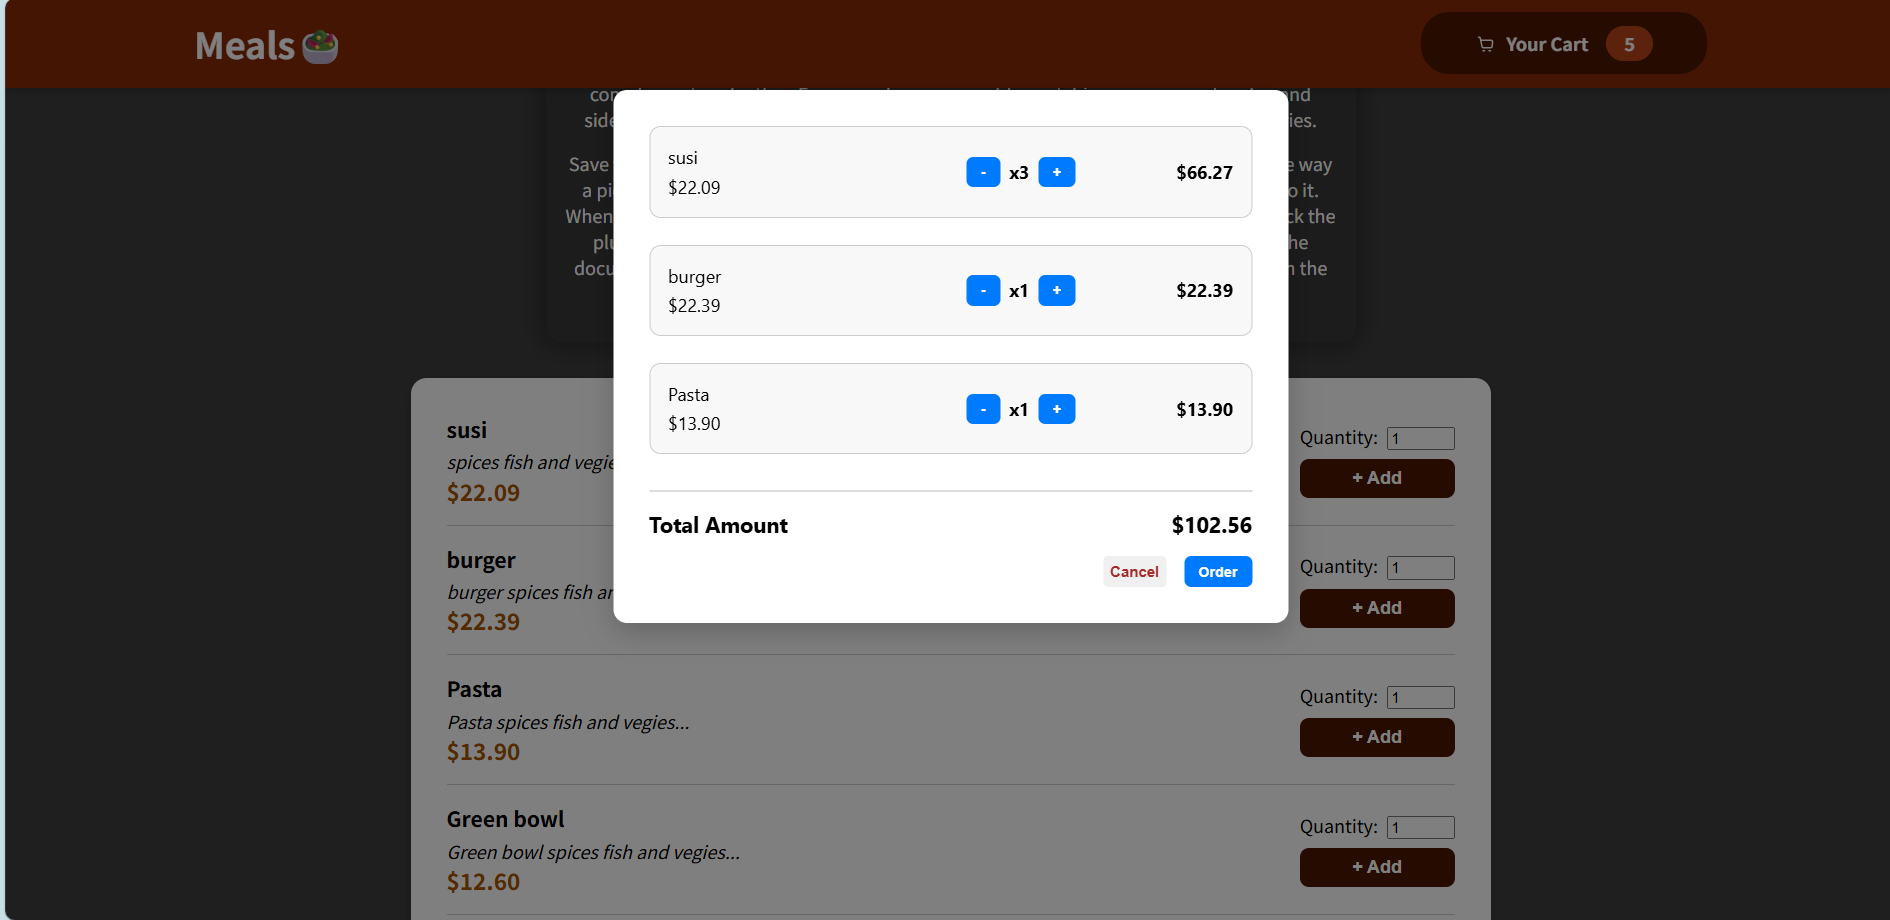
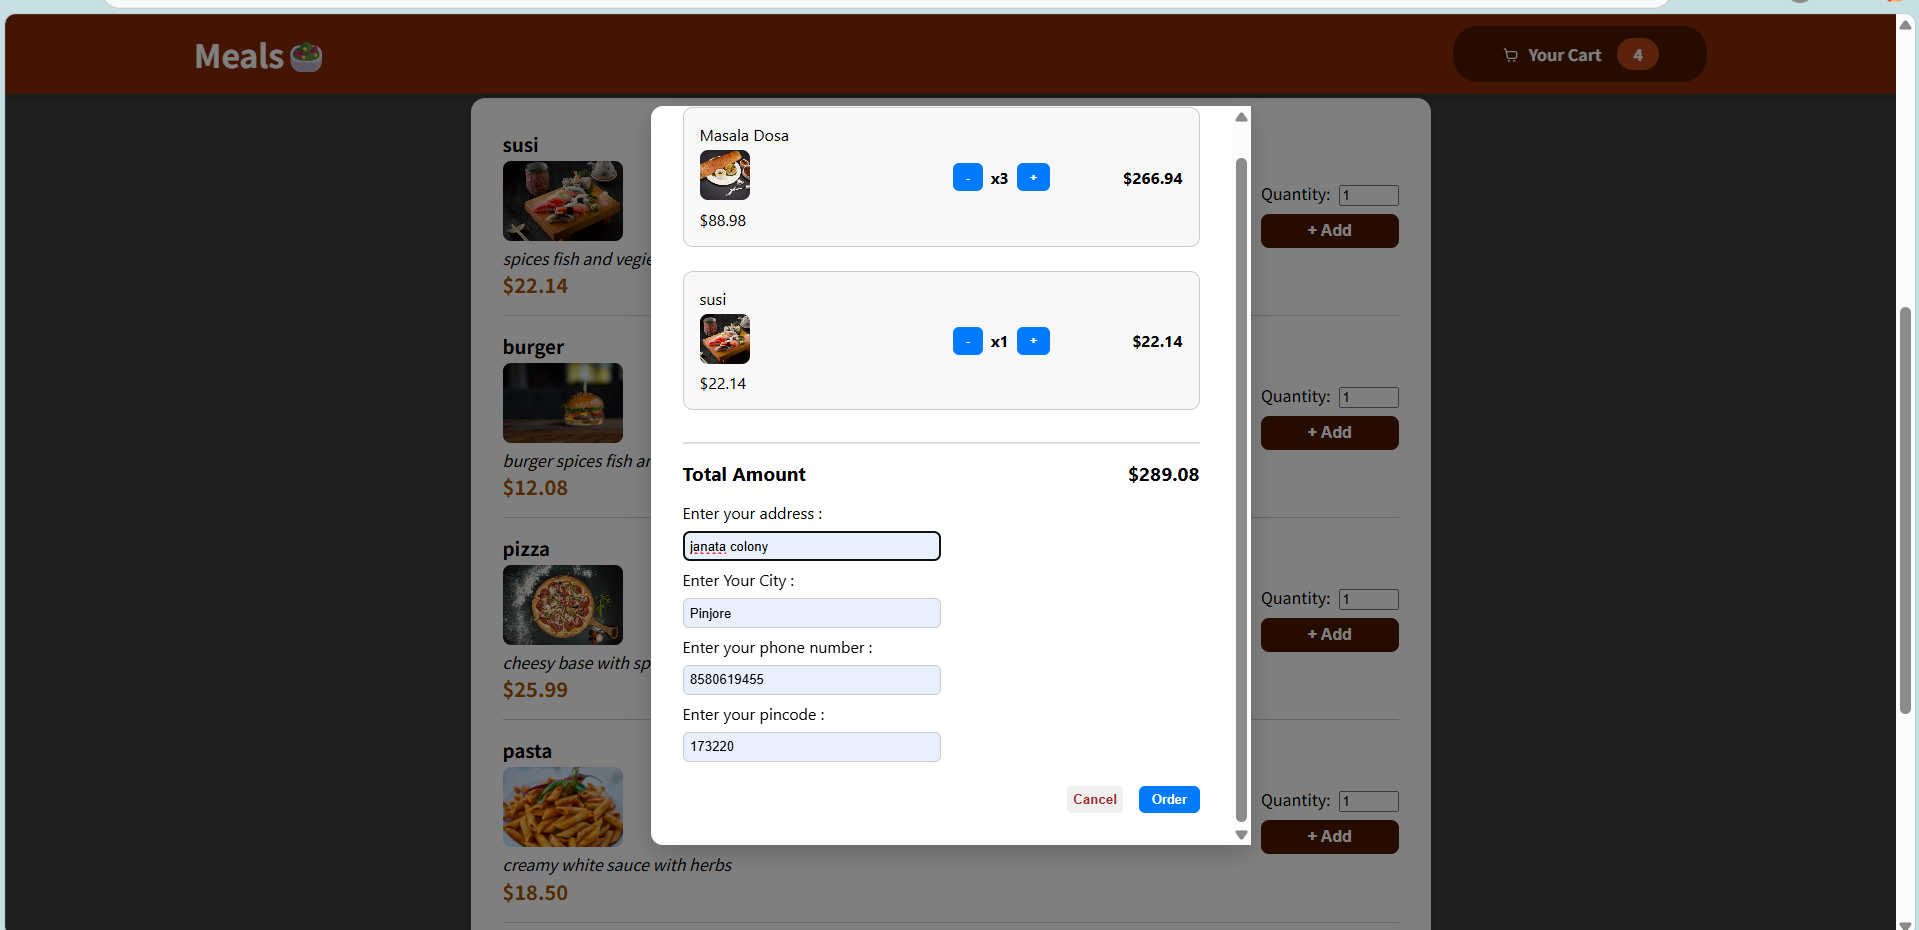
README file updated

Changed region(s): [[0.0, 0.0, 1.0, 1.0], [0.4995, 0.2739, 0.5931, 0.3957], [0.4995, 0.4261, 0.5931, 0.487]]

diff --git a/README.md b/README.md
@@ -6,20 +6,30 @@ This is a simple and elegant React-based Meal Ordering App that uses **React Con
 
 ## 🚀 Features
 
-- ✅ Predefined meal list displayed on the home page
-- ✅ Add meals to cart with notification
-- ✅ Live cart badge update with quantity
-- ✅ Modify quantity using `+` and `–` buttons in cart
-- ✅ Cart has a backdrop popup with `Cancel` and `Order` buttons
-- ✅ Uses **React Context** for state sharing
-- ✅ Clean and modern design using plain CSS
+- ✅ Meals are fetched from Firebase Realtime Database (previously static dummy data).
+- ✅ Add meals to cart with image, description, and price.
+- ✅ Live cart badge updates with selected quantity.
+- ✅ Modify quantity using `+` and `–` buttons in the cart modal.
+- ✅ Form integrated inside cart modal to place an order:
+  - Address
+  - City
+  - Phone number
+  - Pincode
+- ✅ On clicking **Order**:
+  - Form + cart data is submitted to Firebase.
+  - Cart is cleared automatically.
+  - A modal is shown with: **"Your order is submitted!"**
+- ✅ On clicking **OK** in that modal → user is navigated back to home screen.
+- ✅ On clicking **Cancel** → cart modal closes without submitting.
+- ✅ Uses **React Context API** + `useReducer` for state management.
+- ✅ Clean and modern UI using plain CSS.
 
 ---
 
 ## 📸 Screenshots
 
 ### 🖼 1. Meal List Display  
-List of meals displayed with title, description, and price.
+List of meals (with images) displayed with title, description, and price.
 
 ![Meal List](/meal_project/src/assets/image1.png)
 
@@ -32,10 +42,37 @@ On clicking **Add**, the cart badge updates and a notification is shown.
 
 ---
 
-### 🖼 3. Cart View with Quantity Controls  
-The cart view shows all selected meals with quantity controls and backdrop. Clicking `Cancel` or `Order` closes the cart.
+### 🖼 3. Cart View with Quantity Controls & Form  
+The cart view shows selected meals, image thumbnails, quantity controls, and an order form.
 
 ![Cart Popup](/meal_project/src/assets/image3.png)
+
+---
+
+### 🖼 4. Order Submitted Modal  
+After successful order, this modal appears with confirmation and OK button.
+
+> 🛒 Your order is submitted!
+![Submit Popup](/meal_project/src/assets/image4.png)
+
+---
+### 🖼 5. Cart is Empty Alert  
+If cart is empty and user clicks cart button, an alert modal appears:
+
+> 🛒 Please add some item in cart|
+![Empty Cart Popup](/meal_project/src/assets/image5.png)
+
+---
+
+## 🔥 Firebase Integration
+
+- 🔽 Meals fetched from:
+https://meal-project-db-default-rtdb.asia-southeast1.firebasedatabase.app/meals.json
+
+
+- 🔼 Orders (form + cart) submitted to:
+https://meal-project-db-default-rtdb.asia-southeast1.firebasedatabase.app/orderAdress.json
+
 
 ---
 
@@ -46,12 +83,55 @@ The cart view shows all selected meals with quantity controls and backdrop. Clic
 - **useReducer**
 - **useEffect**
 - **useRef**
+- **Firebase Realtime Database**
 - **CSS** (no UI libraries used)
 
 ---
 
-## Run
+## ▶ Run Locally
 
 ```bash
-- npm install
-- npm start
+npm install
+npm start
+
+---
+## 📂 Folder Structure
+
+meal_project/
+├── public/
+├── src/
+│   ├── assets/                        # Static images (used for README and Background cover)
+│   ├── components/
+│   │   ├── Cart/                      # Cart icon and cart button
+│   │   │   └── CartIcon.js
+│   │   ├── Layout/                    # Header & HeaderCartButton components
+│   │   │   ├── Header.js
+│   │   │   ├── HeaderCartButton.js
+│   │   │   ├── Header.module.css
+│   │   │   └── HeaderCartButton.module.css
+│   │   ├── Meals/                     # Meal list, item, and summary
+│   │   │   ├── Meals.js
+│   │   │   ├── MealsSummary.js
+│   │   │   ├── MealsSummary.module.css
+│   │   │   ├── AvailableMeals.js
+│   │   │   ├── AvailableMeals.module.css
+│   │   │   └── MealItem/
+│   │   │       ├── MealItem.js
+│   │   │       └── MealItem.module.css
+│   │   ├── Modal/                     # Cart modal, Order form, and Order confirmation
+│   │   │   ├── CartModal.js
+│   │   │   ├── OrderSubmittedModel.js
+│   │   │   ├── CartModal.module.css
+│   │   │   └── OrderModel.module.css
+│   │   └── UI/                        # Reusable UI components
+│   │       ├── Card.js
+│   │       └── Card.module.css
+│   ├── context/                       # React Context and Provider for cart
+│   │   ├── CartContext.js
+│   │   └── CartProvider.js
+│   ├── App.js                         # Root component
+│   └── index.js                       # Entry point of the React app
+├── .gitignore
+├── package.json
+├── package-lock.json
+└── README.md
